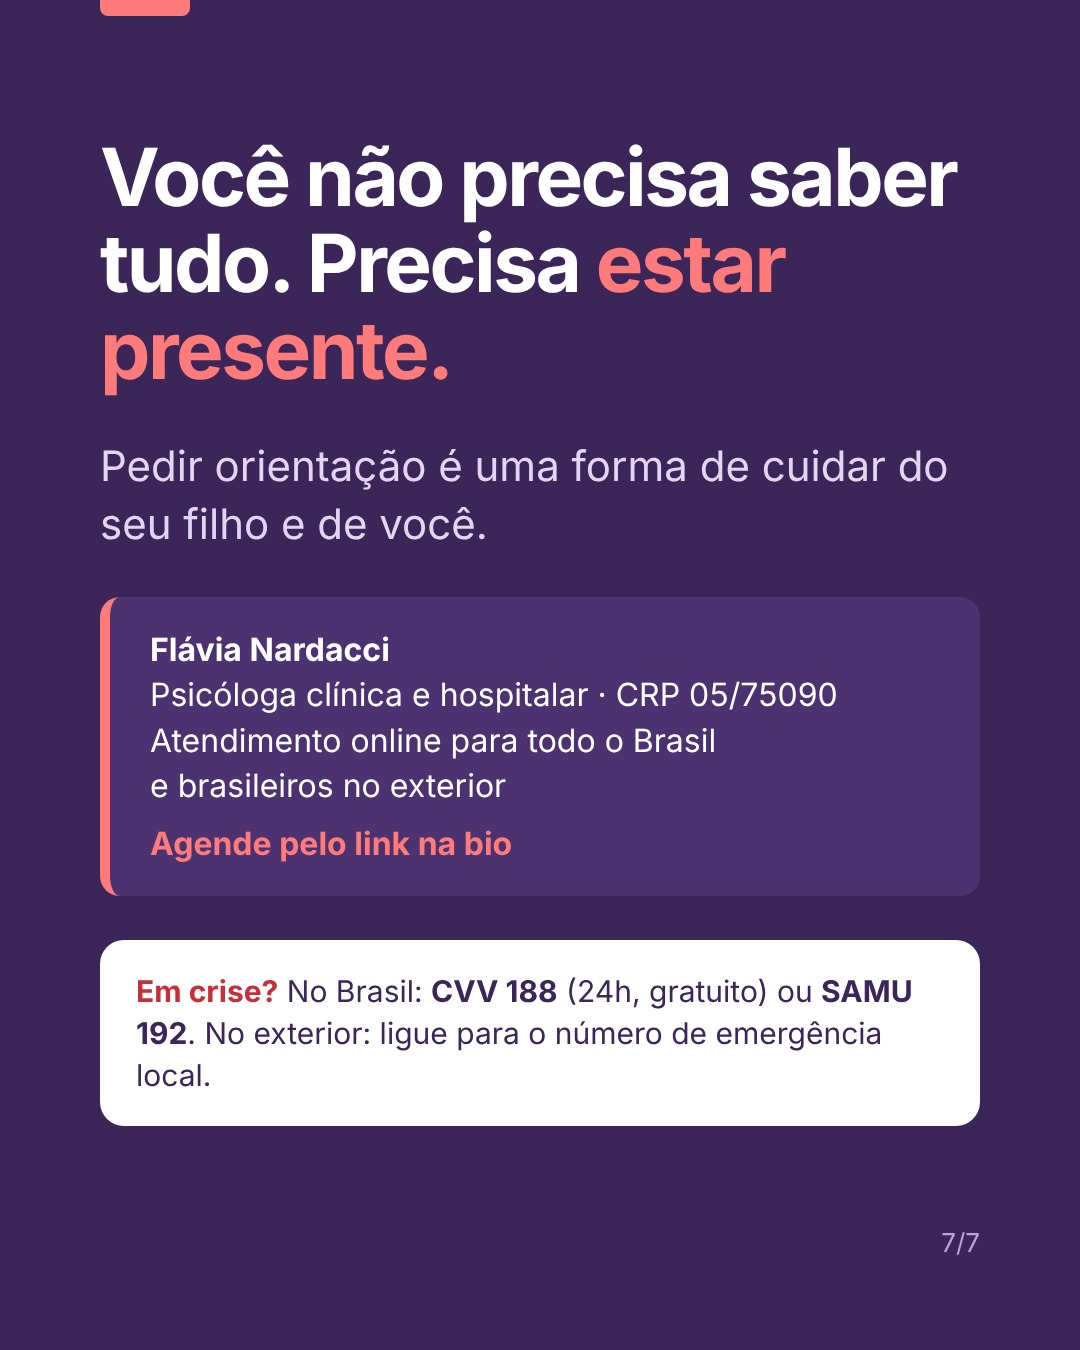
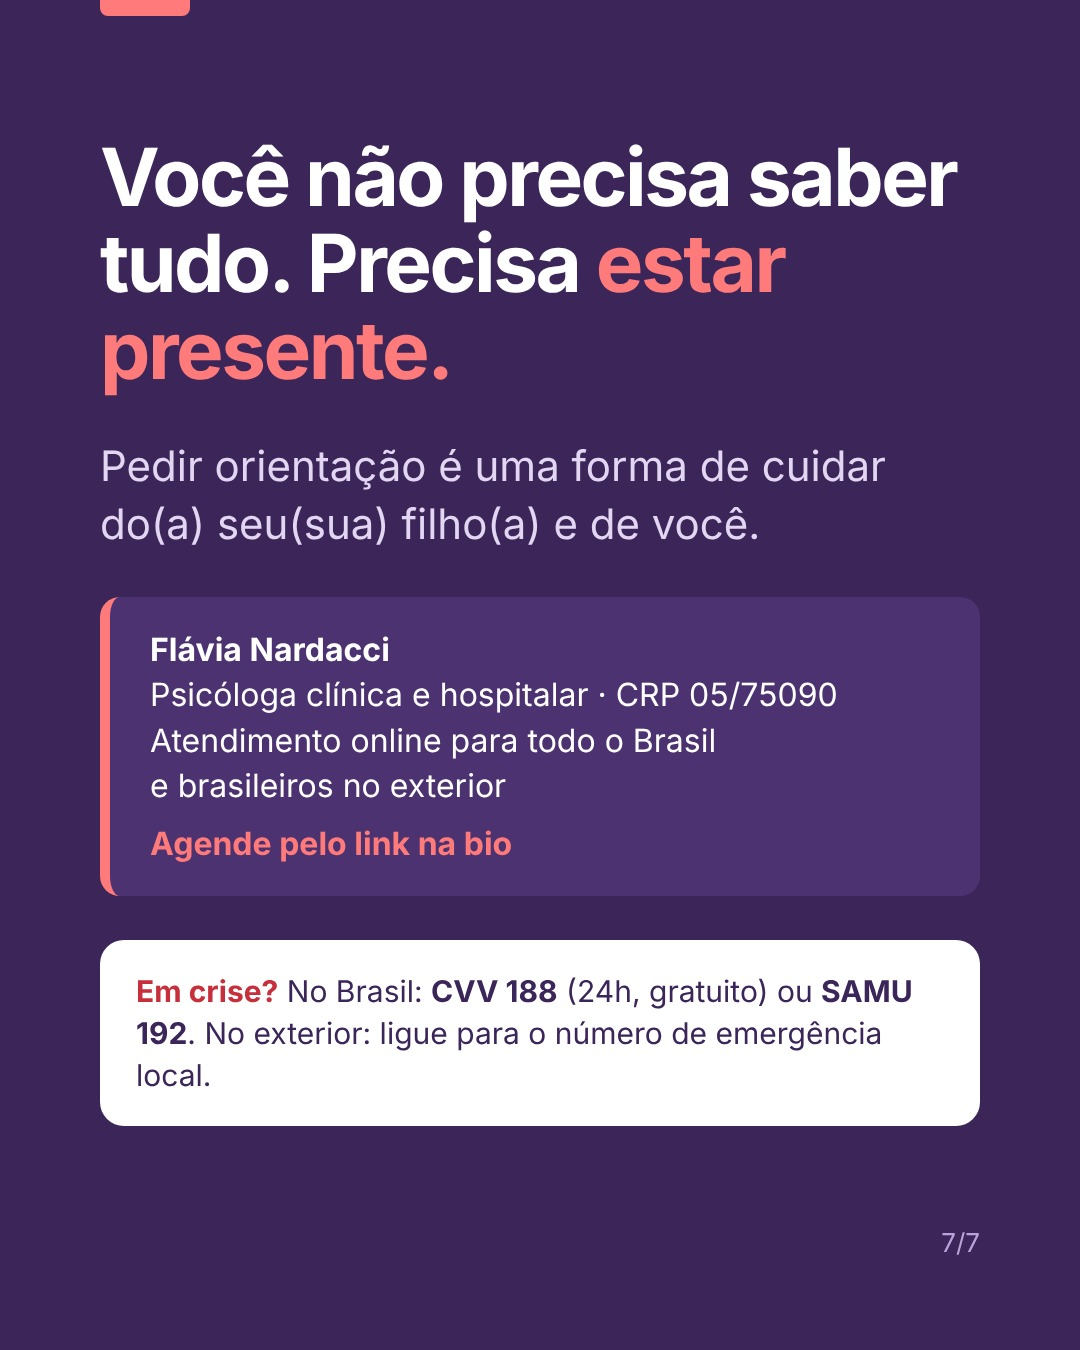
Corrige posts: linguagem inclusiva, foco em adolescentes, Finados em 02/11 e ajustes de texto
Claude-Session: https://claude.ai/code/session_01DoEHCnrgkdv2g34CSZqVkd

Changed region(s): [[0.0917, 0.3733, 0.7028, 0.4044], [0.825, 0.3422, 0.8861, 0.3733]]

diff --git a/posts/legendas.md b/posts/legendas.md
@@ -1,14 +1,12 @@
 # Posts agendados — @psi_flavianardacci
 Todos às 12h (horário de Brasília).
 
-## 13/10 — dia das criancas (7 slides)
+## 13/10 (7 slides)
 
 ```
-Ontem foi Dia das Crianças. Que tal um presente que dura a vida toda? 💜
+A adolescência é uma fase de muitas mudanças, e nem sempre o(a) adolescente consegue explicar o que sente. 💜
 
-Quando a criança aprende a dar nome ao que sente, ela entende melhor as próprias emoções e pede ajuda mais cedo quando algo não vai bem.
-
-Conversar sobre sentimentos é uma forma de proteção.
+Quando aprendemos a dar nome às emoções, pedir ajuda fica mais fácil. E uma conversa sem julgamento pode ser o primeiro passo.
 
 📌 Salve para lembrar.
 📤 Envie para outros pais e responsáveis.
@@ -19,15 +17,15 @@ Atendimento psicológico online para todo o Brasil e brasileiros no exterior. Li
 
 Flávia Nardacci · Psicóloga · CRP 05/75090
 
-#diadascriancas #saudementalinfantil #educacaoemocional #parentalidade #psicologaonline #saudemental
+#adolescencia #saudementaladolescente #educacaoemocional #parentalidade #psicologaonline #saudemental
 ```
 
-## 17/10 — voce nao e um peso (1 imagem)
+## 17/10 (1 imagem)
 
 ```
 Se hoje você sente que é um peso para as pessoas ao seu redor, leia de novo: você não é o peso. Você está carregando um.
 
-E ninguém precisa carregar tudo sozinho. Conversar com alguém de confiança ou buscar ajuda profissional é uma forma de dividir esse peso. 💜
+E ninguém precisa carregar tudo sozinho(a). Conversar com alguém de confiança ou buscar ajuda profissional é uma forma de dividir esse peso. 💜
 
 📤 Envie para alguém que precisa ouvir isso hoje.
 
@@ -40,15 +38,15 @@ Flávia Nardacci · Psicóloga · CRP 05/75090
 #saudemental #depressao #voceimporta #prevencaodosuicidio #psicologaonline #acolhimento
 ```
 
-## 20/10 — autolesao x tentativa (6 slides)
+## 20/10 (6 slides)
 
 ```
-Autolesão e tentativa de suicídio não são a mesma coisa, mas as duas são sinais de sofrimento intenso e merecem cuidado.
+Autolesão e tentativa de suicídio não são a mesma coisa, mas as duas são formas de lidar com uma dor emocional intensa e merecem cuidado.
 
-Entender a diferença ajuda familiares, amigos e educadores a acolher sem julgamento e a agir na hora certa.
+Entender a diferença ajuda familiares, amigos(as) e educadores(as) a acolher sem julgamento e a agir na hora certa.
 
 📌 Salve para consultar quando precisar.
-📤 Compartilhe com pais, professores e amigos.
+📤 Compartilhe com pais, professores(as) e amigos(as).
 
 Atendimento psicológico online para todo o Brasil e brasileiros no exterior. Link na bio.
 
@@ -59,7 +57,7 @@ Flávia Nardacci · Psicóloga · CRP 05/75090
 #autolesao #prevencaodosuicidio #saudemental #saudementaladolescente #psicologaonline #informacaosalva
 ```
 
-## 24/10 — plantao me ensinou (5 slides)
+## 24/10 (5 slides)
 
 ```
 Nos plantões da psicologia hospitalar, aprendi que o sofrimento quase nunca começa no dia da crise. Ele costuma chegar devagar, em silêncio.
@@ -75,12 +73,12 @@ Flávia Nardacci · Psicóloga · CRP 05/75090
 #psicologiahospitalar #bastidores #saudemental #psicologaonline #pedirajuda #psicoterapia
 ```
 
-## 27/10 — filho se machuca (7 slides)
+## 27/10 (7 slides)
 
 ```
-Descobrir que um filho se machuca é assustador. É normal sentir medo, raiva e culpa ao mesmo tempo.
+Descobrir que um(a) filho(a) se machuca é assustador. É normal sentir medo, raiva e culpa ao mesmo tempo.
 
-Mas a forma como você reage nesse momento faz diferença. Acolher, cuidar e buscar ajuda profissional é o caminho mais seguro, para ele e para você.
+Mas a forma como você reage nesse momento faz diferença. Acolher, cuidar e buscar ajuda profissional é o caminho mais seguro, para ele(a) e para você.
 
 📌 Salve este post.
 📤 Envie para outros pais e responsáveis.
@@ -94,7 +92,7 @@ Flávia Nardacci · Psicóloga · CRP 05/75090
 #autolesao #adolescencia #parentalidade #saudementaladolescente #psicologaonline #orientacaoparapais
 ```
 
-## 31/10 — descansar (1 imagem)
+## 31/10 (1 imagem)
 
 ```
 Num mundo que cobra produtividade o tempo todo, descansar pode parecer culpa. Mas não é.
@@ -112,10 +110,10 @@ Flávia Nardacci · Psicóloga · CRP 05/75090
 #descanso #autocuidado #saudemental #esgotamento #psicologaonline #cuidarsi
 ```
 
-## 03/11 — luto (6 slides)
+## 02/11 (6 slides)
 
 ```
-No Dia de Finados, a saudade costuma ficar mais forte.
+Hoje é Dia de Finados, e a saudade costuma ficar mais forte.
 
 O luto é um processo natural e não tem prazo. Mas, quando a dor não diminui, a vida perde o sentido ou você se isola de tudo, é hora de buscar apoio.
 
@@ -130,12 +128,14 @@ Flávia Nardacci · Psicóloga · CRP 05/75090
 #luto #finados #saudade #saudemental #psicologaonline #acolhimento
 ```
 
-## 07/11 — terapia online (6 slides)
+## 07/11 (7 slides)
 
 ```
 Ainda tem dúvidas sobre como funciona a terapia online? Explico passo a passo. 💜
 
 Você pode fazer suas sessões de casa, do trabalho ou de onde estiver, no Brasil ou no exterior, com o mesmo cuidado, ética e sigilo do atendimento presencial.
+
+O que você viveu não precisa continuar doendo no presente.
 
 💬 Ficou alguma dúvida? Pergunte nos comentários.
 
@@ -148,7 +148,7 @@ Flávia Nardacci · Psicóloga · CRP 05/75090
 #terapiaonline #psicologaonline #psicoterapia #brasileirosnoexterior #saudemental #comecarterapia
 ```
 
-## 10/11 — aborrescencia ou depressao (7 slides)
+## 10/11 (7 slides)
 
 ```
 “É só aborrescência.” Será?
